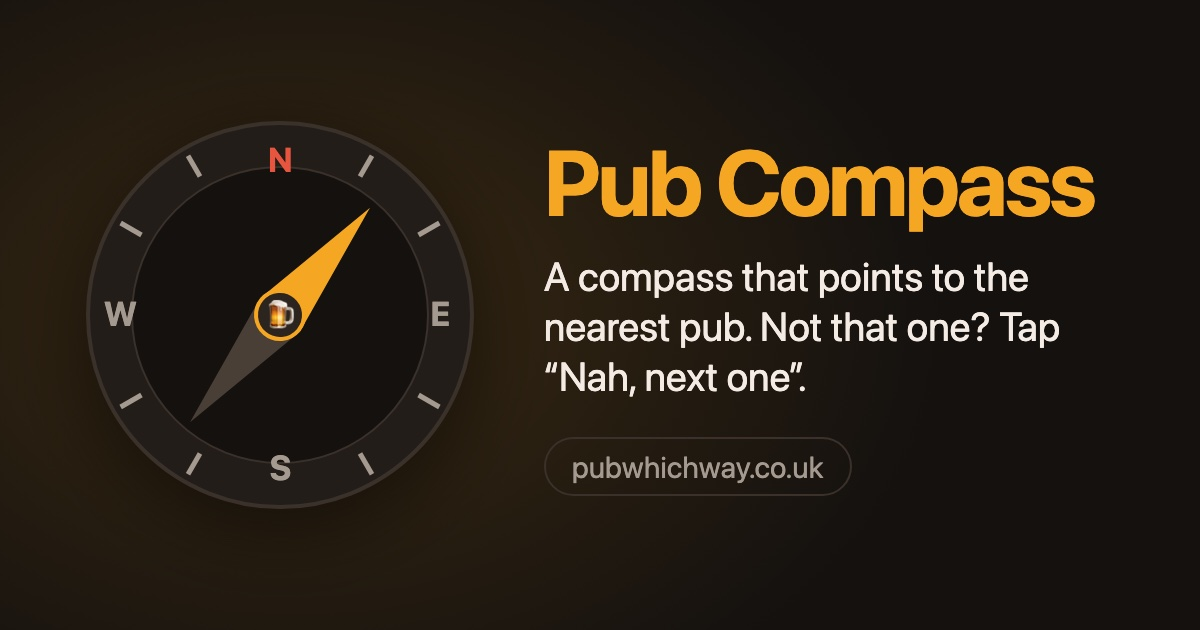
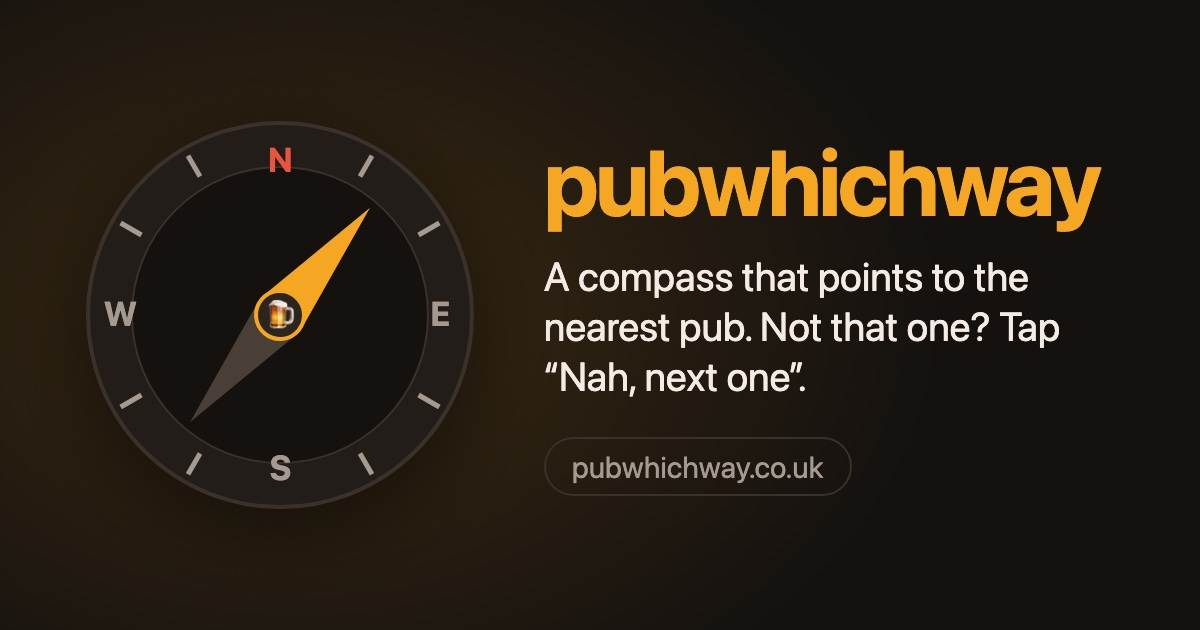
Rename Pub Compass to pubwhichway
Matches the domain (pubwhichway.co.uk) and the renamed GitHub repo.
New service-worker cache name and skip-storage key; regenerated preview image.

Claude-Session: https://claude.ai/code/session_01GAZQELwv3YTzjy2yi6mT5J

Changed region(s): [[0.4317, 0.2413, 0.925, 0.3619]]

diff --git a/index.html b/index.html
@@ -7,20 +7,20 @@
     <meta name="apple-mobile-web-app-capable" content="yes" />
     <meta name="mobile-web-app-capable" content="yes" />
     <meta name="apple-mobile-web-app-status-bar-style" content="black-translucent" />
-    <meta name="apple-mobile-web-app-title" content="Pub Compass" />
-    <title>Pub Compass</title>
+    <meta name="apple-mobile-web-app-title" content="pubwhichway" />
+    <title>pubwhichway</title>
     <meta name="description" content="A compass that points to the nearest pub. Not that one? Tap “Nah, next one”." />
     <!-- Link previews (WhatsApp, iMessage, Slack…). Scrapers need absolute URLs here. -->
     <meta property="og:type" content="website" />
-    <meta property="og:site_name" content="Pub Compass" />
-    <meta property="og:title" content="Pub Compass: which way to the pub?" />
+    <meta property="og:site_name" content="pubwhichway" />
+    <meta property="og:title" content="pubwhichway: which way to the nearest pub?" />
     <meta property="og:description" content="A compass that points to the nearest pub. Not that one? Tap “Nah, next one”." />
     <meta property="og:url" content="https://pubwhichway.co.uk/" />
     <meta property="og:image" content="https://pubwhichway.co.uk/icons/og.jpg" />
     <meta property="og:image:type" content="image/jpeg" />
     <meta property="og:image:width" content="1200" />
     <meta property="og:image:height" content="630" />
-    <meta property="og:image:alt" content="A compass needle pointing to a pint, next to the words Pub Compass" />
+    <meta property="og:image:alt" content="A compass needle pointing to a pint, next to the word pubwhichway" />
     <meta name="twitter:card" content="summary_large_image" />
     <link rel="manifest" href="manifest.webmanifest" />
     <link rel="icon" href="icons/icon.svg" type="image/svg+xml" />
@@ -29,7 +29,7 @@
   </head>
   <body>
     <section id="start" class="screen">
-      <h1>Pub Compass</h1>
+      <h1>pubwhichway</h1>
       <p class="tagline">Points to the nearest pub. That's it.</p>
       <button id="find" class="btn primary huge">Find a pub 🍺</button>
       <p class="small">Needs your location and compass. Pub data © OpenStreetMap contributors.</p>

diff --git a/sw.js b/sw.js
@@ -1,6 +1,6 @@
 // Minimal service worker: makes the app installable and lets the shell load offline.
 // Network-first for our own files (including pub tiles, so visited areas work offline); Overpass (cross-origin) is never touched or cached here.
-const CACHE = "pub-compass-v6";
+const CACHE = "pubwhichway-v7";
 const SHELL = [
   "./",
   "index.html",

diff --git a/tools/og.html b/tools/og.html
@@ -45,7 +45,7 @@
       <text x="100" y="101" font-size="15" text-anchor="middle" dominant-baseline="middle">🍺</text>
     </svg>
     <div>
-      <h1>Pub Compass</h1>
+      <h1>pubwhichway</h1>
       <p>A compass that points to the nearest pub. Not that one? Tap “Nah, next one”.</p>
       <span class="url">pubwhichway.co.uk</span>
     </div>

diff --git a/app.js b/app.js
@@ -18,7 +18,7 @@ import { wikiSummary } from "./wiki.js";
 const RADII = [2000, 5000];
 const REFETCH_AFTER_M = 100;
 const ARRIVED_M = 25;
-const SKIP_KEY = "pubCompass.skipped";
+const SKIP_KEY = "pubwhichway.skipped";
 
 const $ = (id) => document.getElementById(id);
 const el = {

diff --git a/README.md b/README.md
@@ -1,4 +1,4 @@
-# 🍺 Pub Compass
+# 🍺 pubwhichway
 
 A mobile web app whose compass needle points at the nearest pub. Don't fancy it? Tap **Nah, next one**.
 
@@ -52,14 +52,14 @@ To cover more of the map, add Geofabrik region names to `REGIONS` in `tools/buil
 
 ## Deploy to GitHub Pages
 
-1. Push this repo to GitHub (e.g. `pub-compass`).
+1. Push this repo to GitHub (e.g. `pubwhichway`).
 2. Go to **Settings → Pages**.
 3. Under **Build and deployment**, set **Source** to **Deploy from a branch**, then select the **main** branch and the **/ (root)** folder, and click **Save**.
-4. After a minute the app is live at `https://<user>.github.io/pub-compass/`.
+4. After a minute the app is live at `https://<user>.github.io/pubwhichway/`.
 5. On your phone, open it, tap **Find a pub**, and allow location (and motion & orientation on iOS). To install it, use **Share → Add to Home Screen** on iOS or **Install app** on Android.
 
 The live site is https://pubwhichway.co.uk/ (custom domain set in Settings → Pages; the `CNAME` file is managed by GitHub).
-All paths are relative, so it also works from a `/pub-compass/` subpath. The one exception is the Open Graph tags in `index.html`, which must be absolute URLs for link previews. After you deploy changes, bump `CACHE` in `sw.js` so installed copies drop the old app-shell cache sooner. It's network-first anyway, so online users get updates straight away.
+All paths are relative, so it also works from a `/pubwhichway/` subpath. The one exception is the Open Graph tags in `index.html`, which must be absolute URLs for link previews. After you deploy changes, bump `CACHE` in `sw.js` so installed copies drop the old app-shell cache sooner. It's network-first anyway, so online users get updates straight away.
 
 ## Notes
 

diff --git a/CLAUDE.md b/CLAUDE.md
@@ -1,4 +1,4 @@
-Build "Pub Compass": a mobile web app (iPhone + Android) where a compass needle points to the nearest pub.
+Build "pubwhichway" (live at https://pubwhichway.co.uk): a mobile web app (iPhone + Android) where a compass needle points to the nearest pub.
 
 Stack:
 - Static PWA (vanilla JS/HTML/CSS, no framework) hosted on GitHub Pages using "Deploy from a branch" (main, root). No build step, no GitHub Actions.
